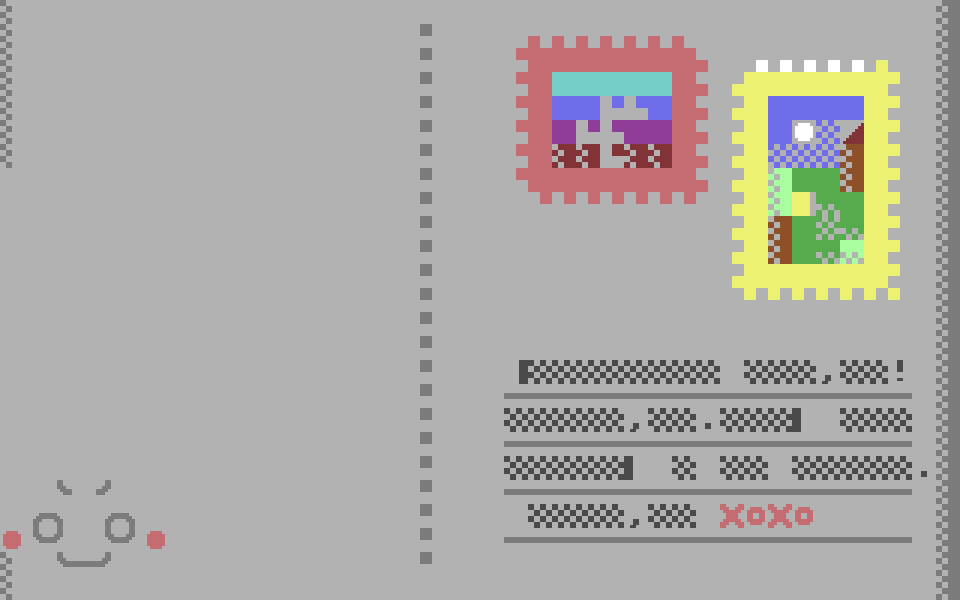
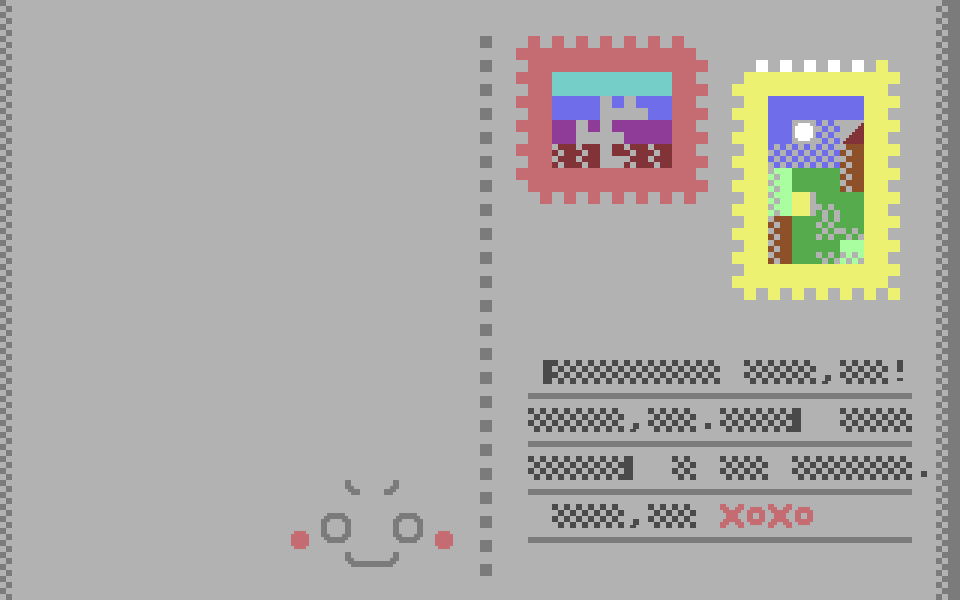
Add postcard text and pixel art

diff --git a/sketch.js b/sketch.js
@@ -16,7 +16,7 @@ let plantEmojis = [];
 let treeEmojis = [];
 let leafEmojis = [];
 let flowerEmojis = [];
-let abandonedHouseEmoji;
+let abandonedHouseEmojis = [];
 let houseEmojis = [];
 let animalEmojis = [];
 let weatherEmojis = [];
@@ -70,8 +70,9 @@ function preload() {
     plantEmojis.push(loadImage("./images/shamrock.png"));
     plantEmojis.push(loadImage("./images/sheaf-of-rice.png"));
 
-    treeEmojis.push(loadImage("./images/deciduous-tree.png"));
-    treeEmojis.push(loadImage("./images/evergreen-tree.png"));
+    treeEmojis.push(loadImage("./images/tree1.png"));
+    treeEmojis.push(loadImage("./images/tree2.png"));
+    treeEmojis.push(loadImage("./images/tree3.png"));
 
     leafEmojis.push(loadImage("./images/fallen-leaf.png"));
     leafEmojis.push(loadImage("./images/leaf-fluttering-in-wind.png"));
@@ -85,9 +86,10 @@ function preload() {
     flowerEmojis.push(loadImage("./images/sunflower.png"));
     flowerEmojis.push(loadImage("./images/tulip.png"));
 
-    abandonedHouseEmoji = loadImage("./images/derelict-house.png");
-    houseEmojis.push(loadImage("./images/house-with-garden.png"));
-    houseEmojis.push(loadImage("./images/house.png"));
+    abandonedHouseEmojis.push(loadImage("./images/brokenHouse1.png"));
+    abandonedHouseEmojis.push(loadImage("./images/brokenHouse2.png"));
+    houseEmojis.push(loadImage("./images/house1.png"));
+    houseEmojis.push(loadImage("./images/house2.png"));
     // houseEmojis.push(loadImage("./images/hut.png"));
 
     animalEmojis.push(loadImage("./images/deer.png"));
@@ -463,7 +465,8 @@ function enterHouse() {
 
                     if (grid.grid[i][j] instanceof House && !grid.grid[i][j].visited && grid.grid[i][j].data.label === grid.grid[player.x][player.y].data.label) {
                         grid.grid[i][j].visited = true;
-                        grid.grid[i][j].symbol = random(houseEmojis);
+                        // console.log()
+                        grid.grid[i][j].symbol = houseEmojis[currentCell.houseType];
                     }
                 }
             }
@@ -521,7 +524,6 @@ function pasteMyText(text) {
 
     draw();
 }
-
 
 function mod(n, m) {
     return ((n % m) + m) % m;

diff --git a/js/Mailbox.js b/js/Mailbox.js
@@ -53,10 +53,10 @@ class Mailbox {
         if (!this.visiting) {
             if (player.x == this.gridX && player.y == this.gridY) {
                 if (mailCount < mail.mail.length) {
-                    this.phrase += random(this.greetings) + ",";
-                    this.phrase += "\n\n" + mail.mail[mailCount] + "\n\n";
-                    this.phrase += random(this.goodbyes) + ",\n";
-                    this.phrase += random(this.sender);
+                    // this.phrase += random(this.greetings) + ",";
+                    this.phrase += mail.mail[mailCount];
+                    // this.phrase += random(this.goodbyes) + ",\n";
+                    // this.phrase += random(this.sender);
                     mailCount++;
                     this.visiting = true;
                     this.symbol = mailboxEmojis[1];
@@ -105,11 +105,12 @@ class Mailbox {
             image(this.postcardWritingImage, 0, 0);
 
             textAlign(LEFT, TOP);
-            textSize(cellSize*.6);
+            textSize(cellSize*.45);
+            textLeading(cellSize*.45);
             textFont(postcardFont);
             rectMode(CORNER);
             fill("#404040");
-            text(this.phrase, -this.w/2+40, -this.h/2+20, this.w/2-130, this.h-40);
+            text(this.phrase, -this.w/2+40, -this.h/2+30, this.w/2-60, this.h-0);
         } else if (this.side == -1) {
 
             rectMode(CENTER);

diff --git a/js/House.js b/js/House.js
@@ -4,7 +4,8 @@ class House {
 
         this.x = x * cellSize;
         this.y = y * cellSize;
-        this.symbol = abandonedHouseEmoji;
+        this.houseType = random([0, 1]);
+        this.symbol = abandonedHouseEmojis[this.houseType];
         this.fog = fog;
 
         this.data = random(links.links)
